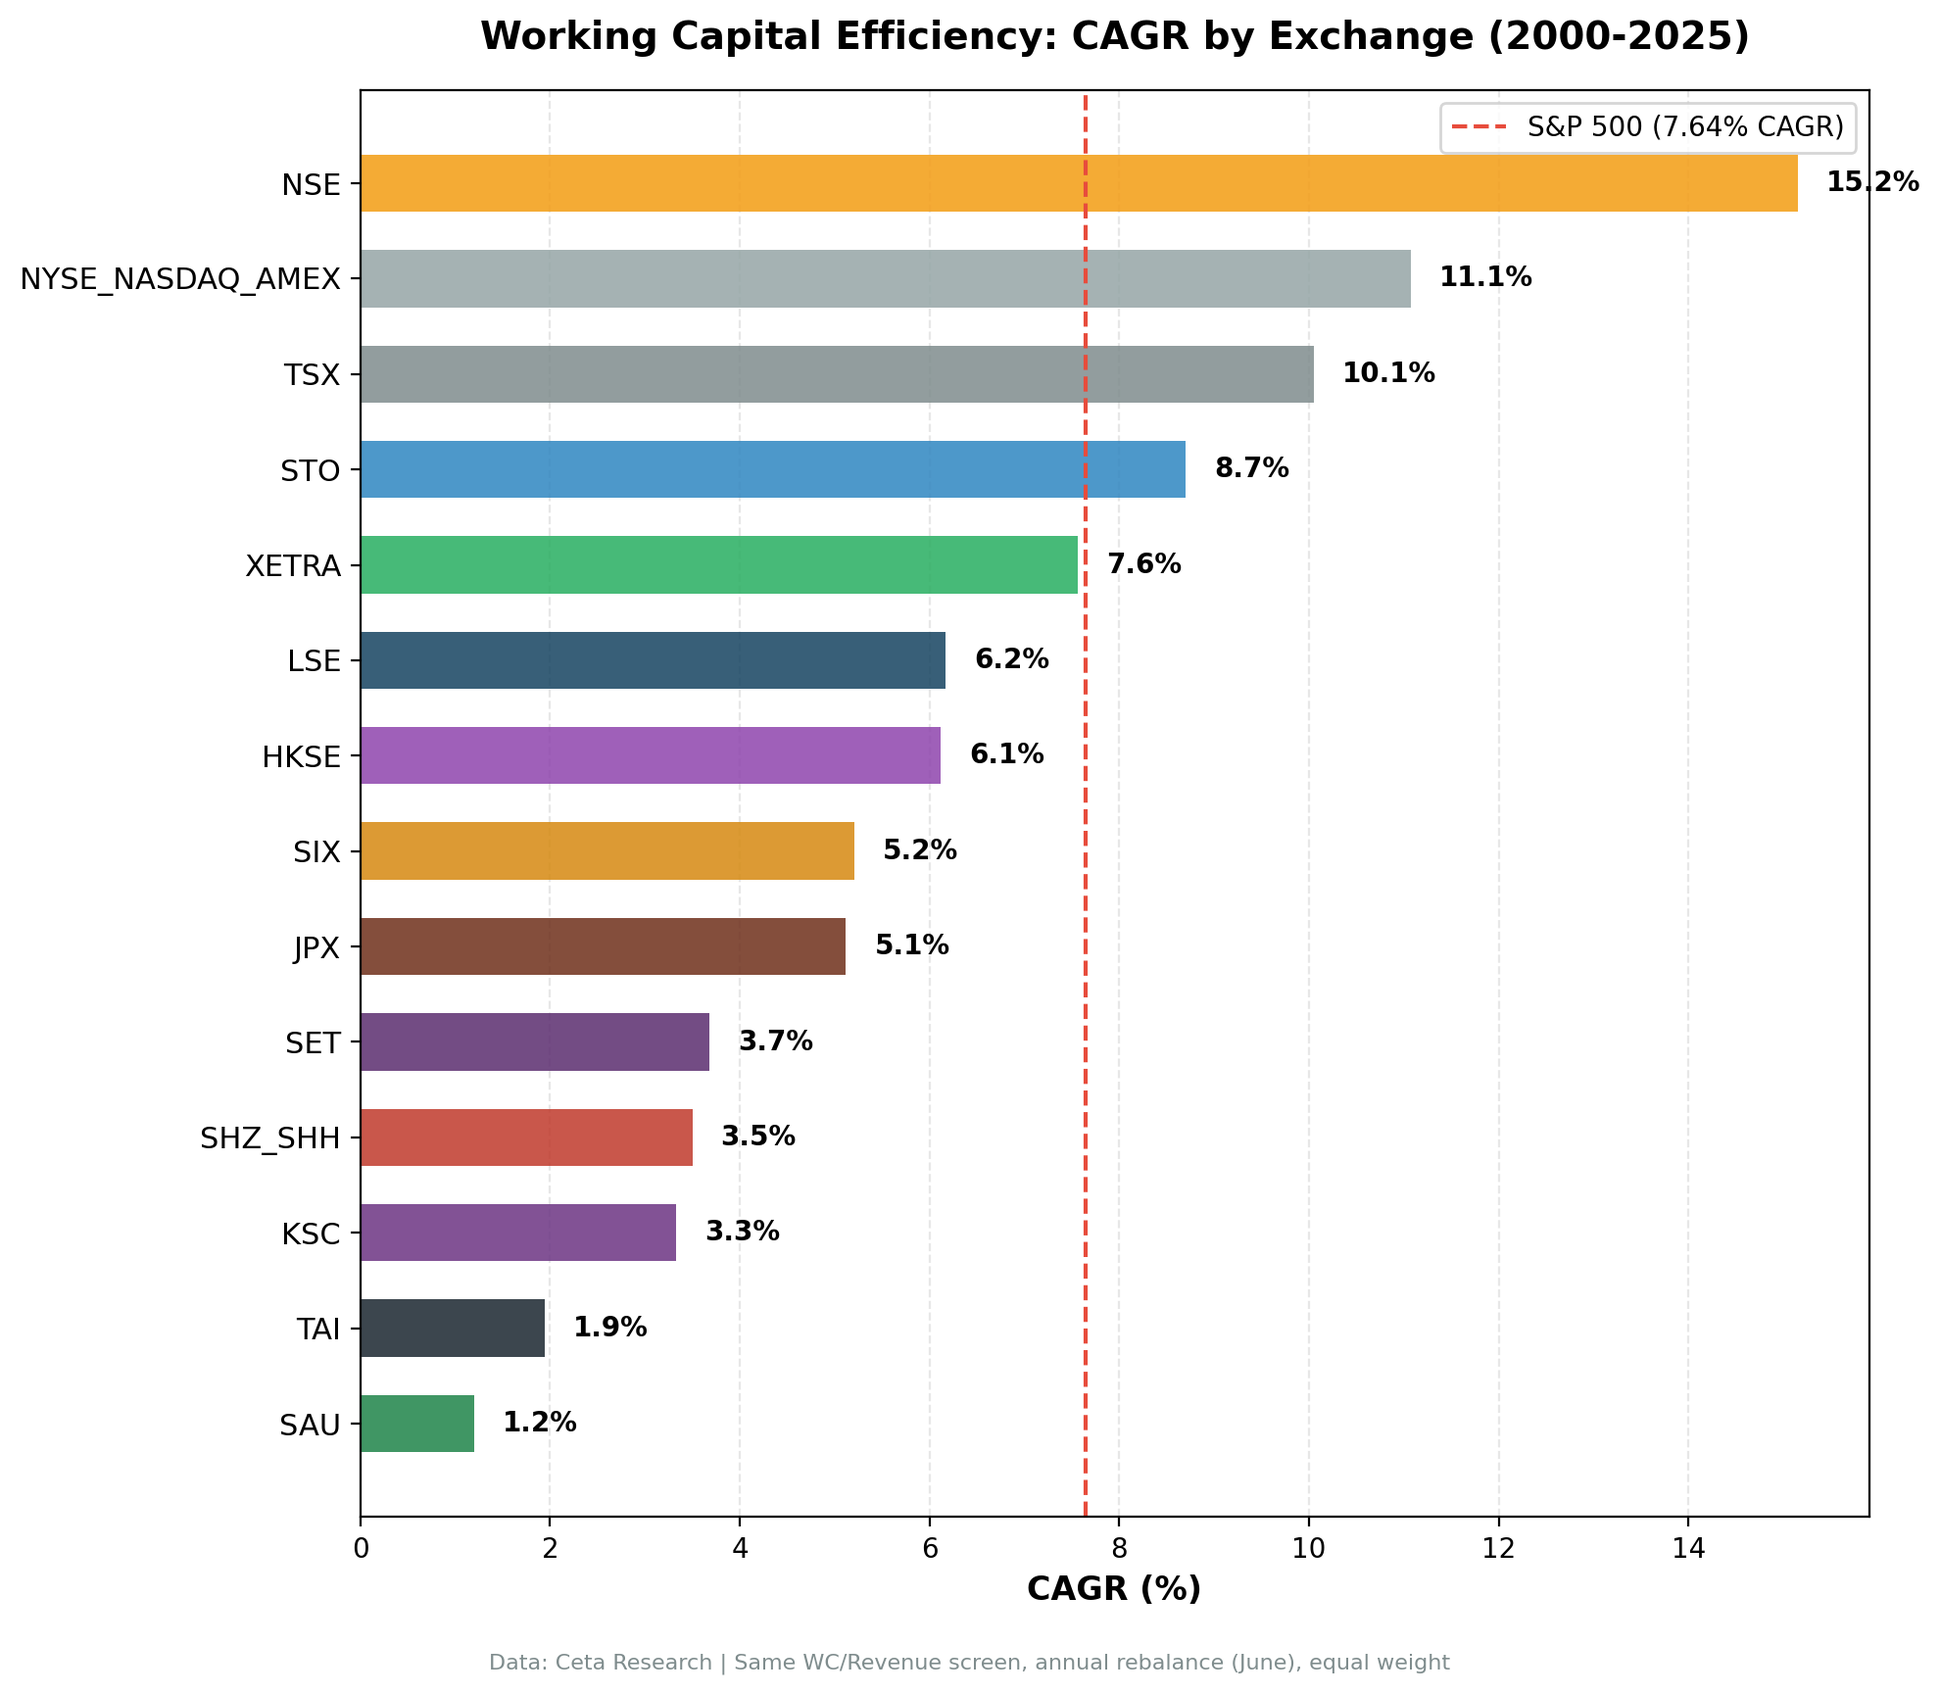
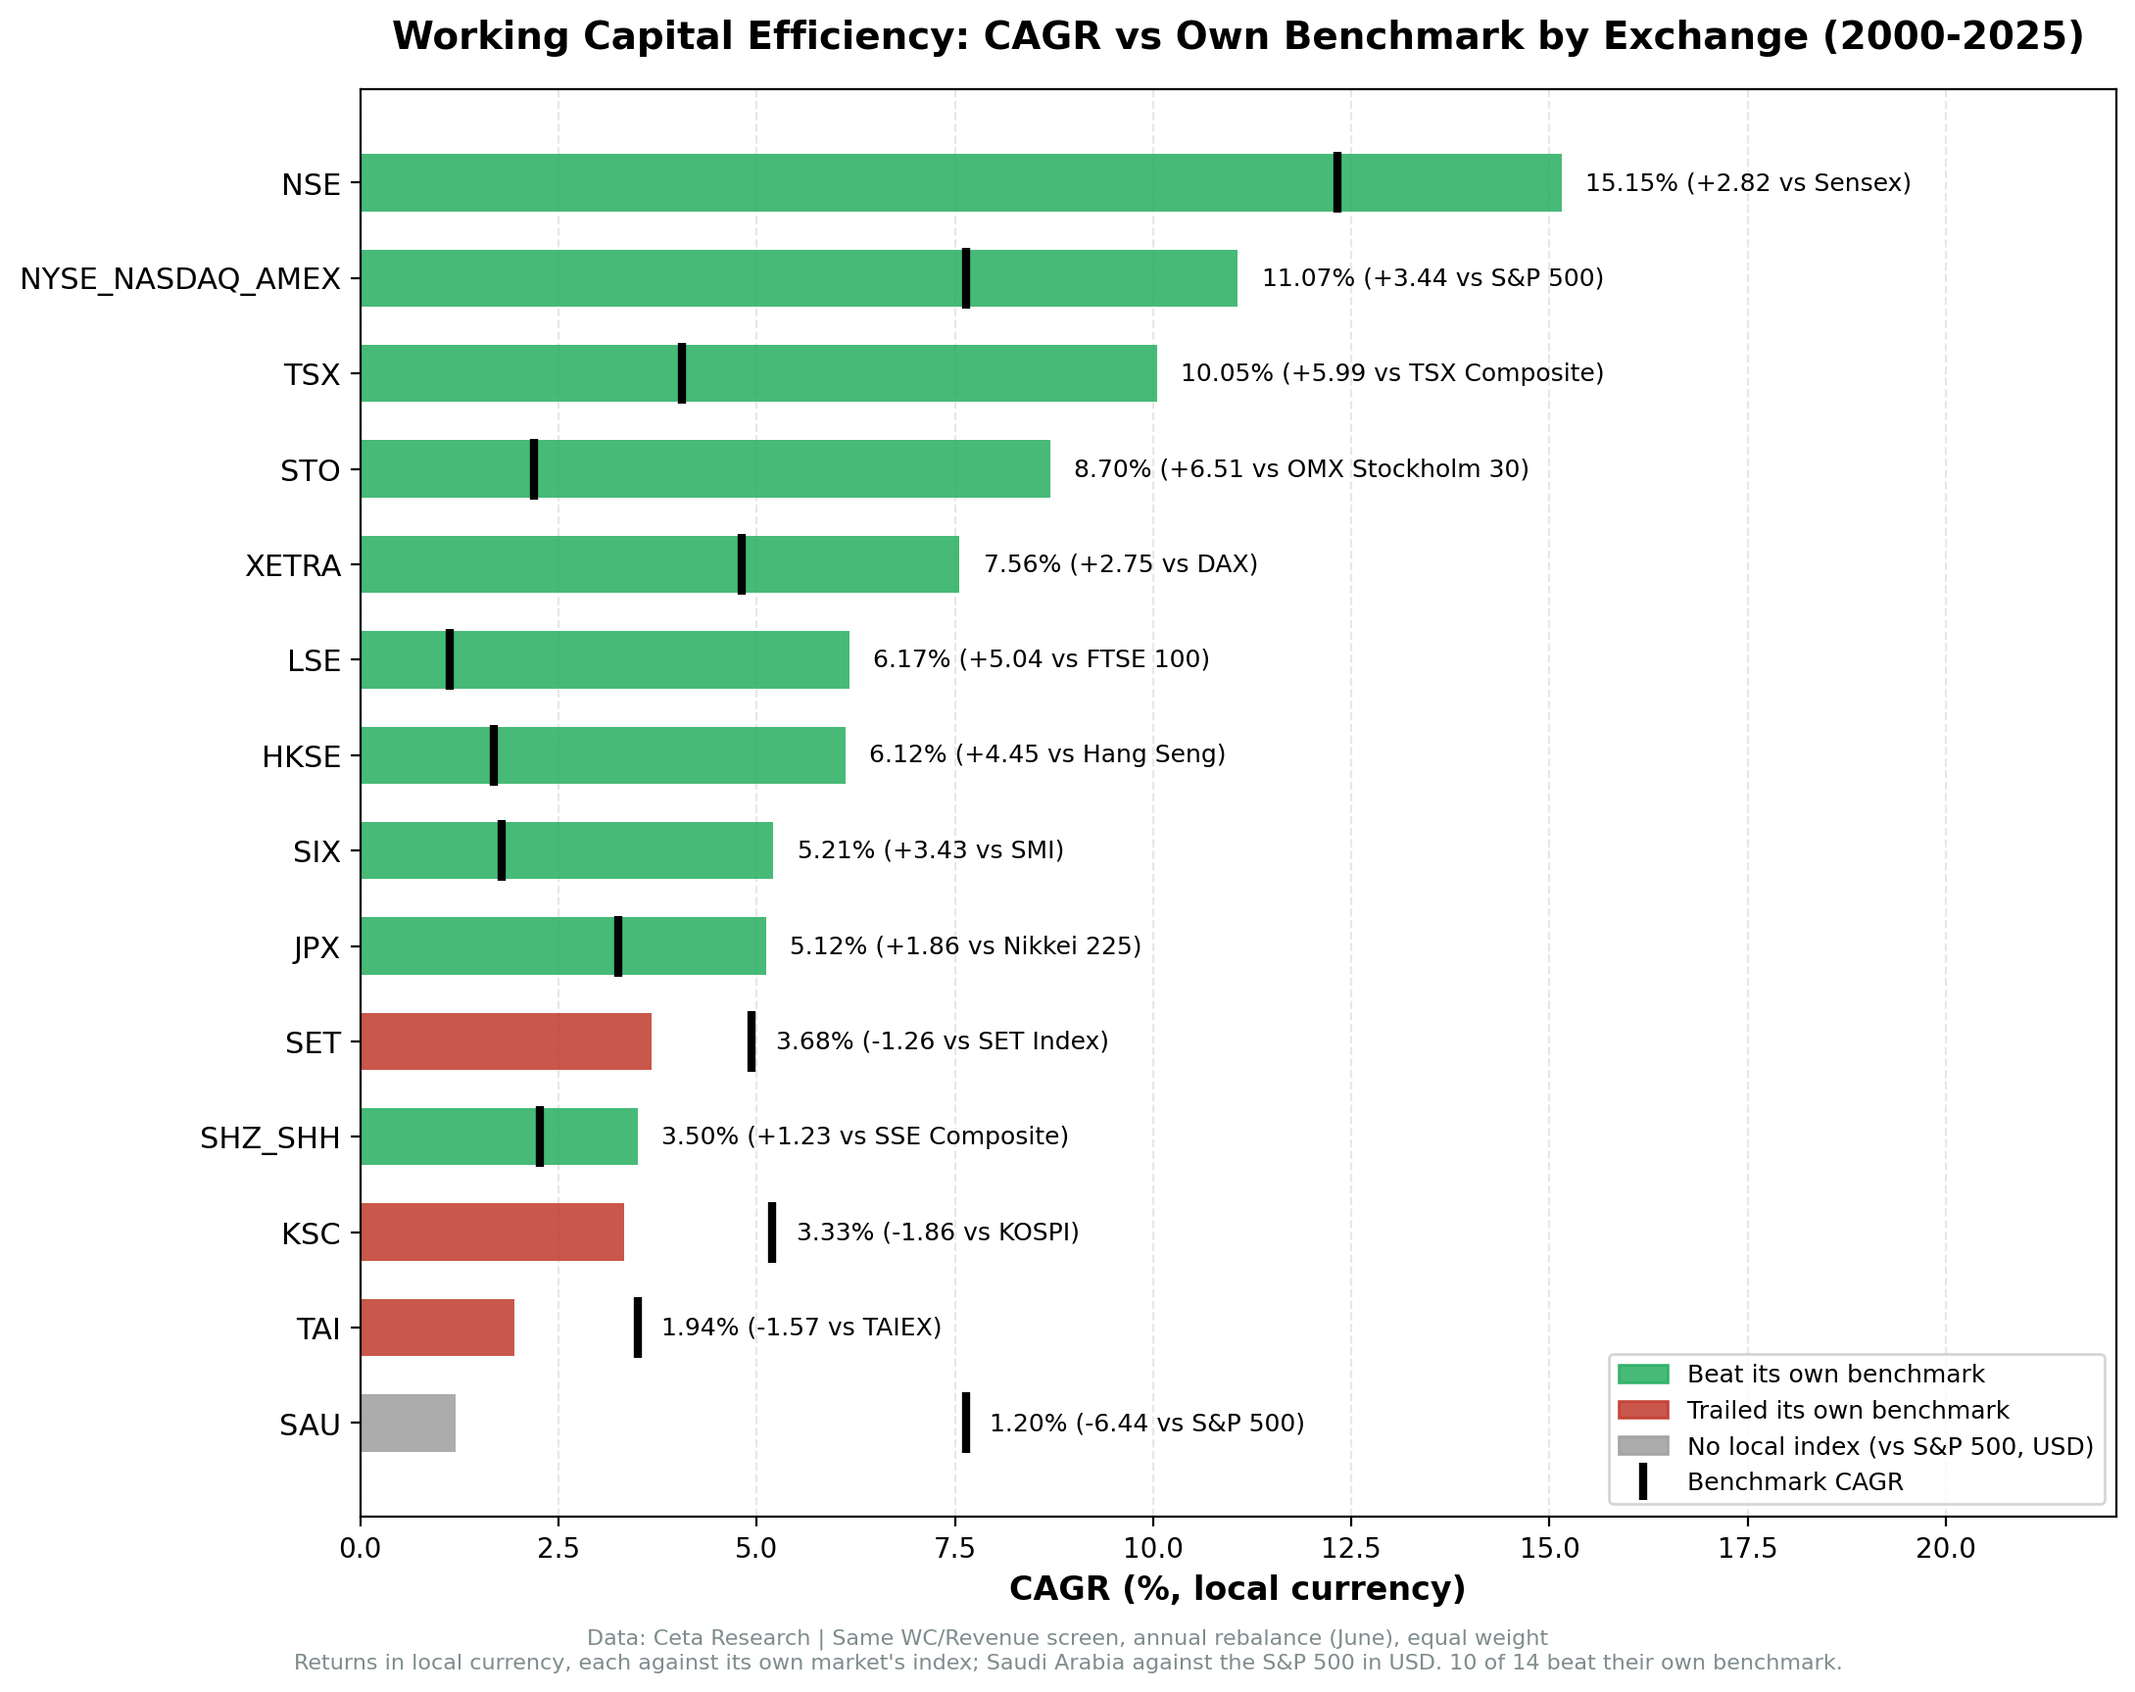
Chart working-capital's comparison against each market's own index
The single S&P 500 line (now correct at 7.64%) set 14 local-currency bars
against one USD index, so the feature chart showed 4 winners under a post
that says 10 of 14 beat their local benchmark. Bars now carry their own
benchmark marker and excess, coloured by beat/trail, with Saudi Arabia
marked as measured against the S&P 500 in USD.

etf-concentration: the comparison footer gave the rand's 2000-2025 slide
(4.2%/yr) for a 2005-2025 backtest; over that window it is 4.8%/yr.

diff --git a/working-capital/generate_charts.py b/working-capital/generate_charts.py
@@ -1,6 +1,8 @@
 """Generate all Working Capital Efficiency charts for blog posts from results/exchange_comparison.json."""
 import matplotlib.pyplot as plt
 import matplotlib.ticker as mticker
+from matplotlib.lines import Line2D
+from matplotlib.patches import Patch
 import json
 from pathlib import Path
 import os as _os, sys as _sys
@@ -16,6 +18,8 @@ with open(results_dir / "exchange_comparison.json") as f:
 
 # Not in the published comparison table: a stale BSE_NSE duplicate of NSE, and ASX.
 COMPARISON_EXCLUDE = {"BSE_NSE", "ASX"}
+# No local index data: measured against the S&P 500 in USD, a cross-currency gap.
+CROSS_CCY = {"SAU"}
 
 # Color palette
 COLORS = {
@@ -200,7 +204,7 @@ def chart_annual_bars(exchanges, filename, title, footer_universe):
 
 
 def chart_comparison_cagr(filename):
-    """Horizontal bar chart: CAGR by exchange."""
+    """CAGR by exchange, each against its own benchmark (marker)."""
     exchanges_with_data = [
         (k, v) for k, v in data.items()
         if k not in COMPARISON_EXCLUDE
@@ -212,32 +216,42 @@ def chart_comparison_cagr(filename):
 
     names = [k for k, v in exchanges_with_data]
     cagrs = [v["portfolio"]["cagr"] for k, v in exchanges_with_data]
-    colors = [COLORS.get(k, "#95a5a6") for k in names]
+    benches = [v["spy"]["cagr"] for k, v in exchanges_with_data]
+    excesses = [v.get("comparison", {}).get("excess_cagr", c - b)
+                for (k, v), c, b in zip(exchanges_with_data, cagrs, benches)]
+    colors = ["#9E9E9E" if k in CROSS_CCY else "#27ae60" if c > b else "#c0392b"
+              for k, c, b in zip(names, cagrs, benches)]
 
-    spy_cagr = data[us_key].get("spy", {}).get("cagr", 7.83)
-
-    fig, ax = plt.subplots(figsize=(10, max(6, len(names) * 0.6)))
-    bars = ax.barh(range(len(names)), cagrs, color=colors, alpha=0.85, height=0.6)
-
-    ax.axvline(x=spy_cagr, color="#e74c3c", linewidth=1.5, linestyle="--",
-               label=f"S&P 500 ({spy_cagr}% CAGR)")
+    fig, ax = plt.subplots(figsize=(11, max(6, len(names) * 0.6)))
+    ax.barh(range(len(names)), cagrs, color=colors, alpha=0.85, height=0.6)
+    ax.scatter(benches, range(len(names)), marker="|", s=500, linewidths=3, color="black", zorder=3)
 
     ax.set_yticks(range(len(names)))
     ax.set_yticklabels(names, fontsize=11)
     ax.invert_yaxis()
-    ax.set_xlabel("CAGR (%)", fontsize=12, fontweight="bold")
-    ax.set_title(f"{STRATEGY_NAME}: CAGR by Exchange (2000-2025)",
+    ax.set_xlabel("CAGR (%, local currency)", fontsize=12, fontweight="bold")
+    ax.set_xlim(right=max(max(cagrs), max(benches)) + 7)
+    ax.set_title(f"{STRATEGY_NAME}: CAGR vs Own Benchmark by Exchange (2000-2025)",
                  fontsize=14, fontweight="bold", pad=15)
-    ax.legend(fontsize=10)
+    ax.legend(handles=[
+        Patch(color="#27ae60", alpha=0.85, label="Beat its own benchmark"),
+        Patch(color="#c0392b", alpha=0.85, label="Trailed its own benchmark"),
+        Patch(color="#9E9E9E", alpha=0.85, label="No local index (vs S&P 500, USD)"),
+        Line2D([], [], color="black", marker="|", linestyle="none", markersize=14,
+               markeredgewidth=3, label="Benchmark CAGR"),
+    ], fontsize=9, loc="lower right")
     ax.grid(True, alpha=0.3, axis="x", linestyle="--")
     ax.set_axisbelow(True)
 
-    for i, (bar, cagr) in enumerate(zip(bars, cagrs)):
-        x_pos = max(cagr, 0) + 0.3
-        ax.text(x_pos, i, f"{cagr:.1f}%", va="center", fontsize=10, fontweight="bold")
+    for i, (k, c, b, e) in enumerate(zip(names, cagrs, benches, excesses)):
+        ax.text(max(c, b, 0) + 0.3, i, f"{c:.2f}% ({e:+.2f} vs {benchmark_label(data, k)})",
+                va="center", fontsize=9)
 
+    beat = sum(c > b for k, c, b in zip(names, cagrs, benches) if k not in CROSS_CCY)
     fig.text(0.5, -0.02,
-             f"Data: Ceta Research | Same WC/Revenue screen, {REBALANCE_NOTE}, equal weight",
+             f"Data: Ceta Research | Same WC/Revenue screen, {REBALANCE_NOTE}, equal weight\n"
+             f"Returns in local currency, each against its own market's index; Saudi Arabia against the "
+             f"S&P 500 in USD. {beat} of {len(names)} beat their own benchmark.",
              ha="center", fontsize=8, color="#7f8c8d")
 
     plt.tight_layout()

diff --git a/etf-concentration/generate_charts.py b/etf-concentration/generate_charts.py
@@ -66,7 +66,7 @@ COMPARISON_UNIVERSES = {
 CROSS_CCY_UNIVERSES = {"JNB"}
 CROSS_CCY_COLOR = "#9E9E9E"
 COMPARISON_NOTE = ("Each exchange in local currency vs its own local index. JNB has no local index data, "
-                   "so its ZAR returns sit against the S&P 500 in USD (ZAR fell 4.2%/yr vs USD, 2000-2025).\n"
+                   "so its ZAR returns sit against the S&P 500 in USD (ZAR fell 4.8%/yr vs USD, 2005-2025).\n"
                    "*Norway: 12 periods (2013-2024). SAO and ASX excluded for data quality.")
 
 
